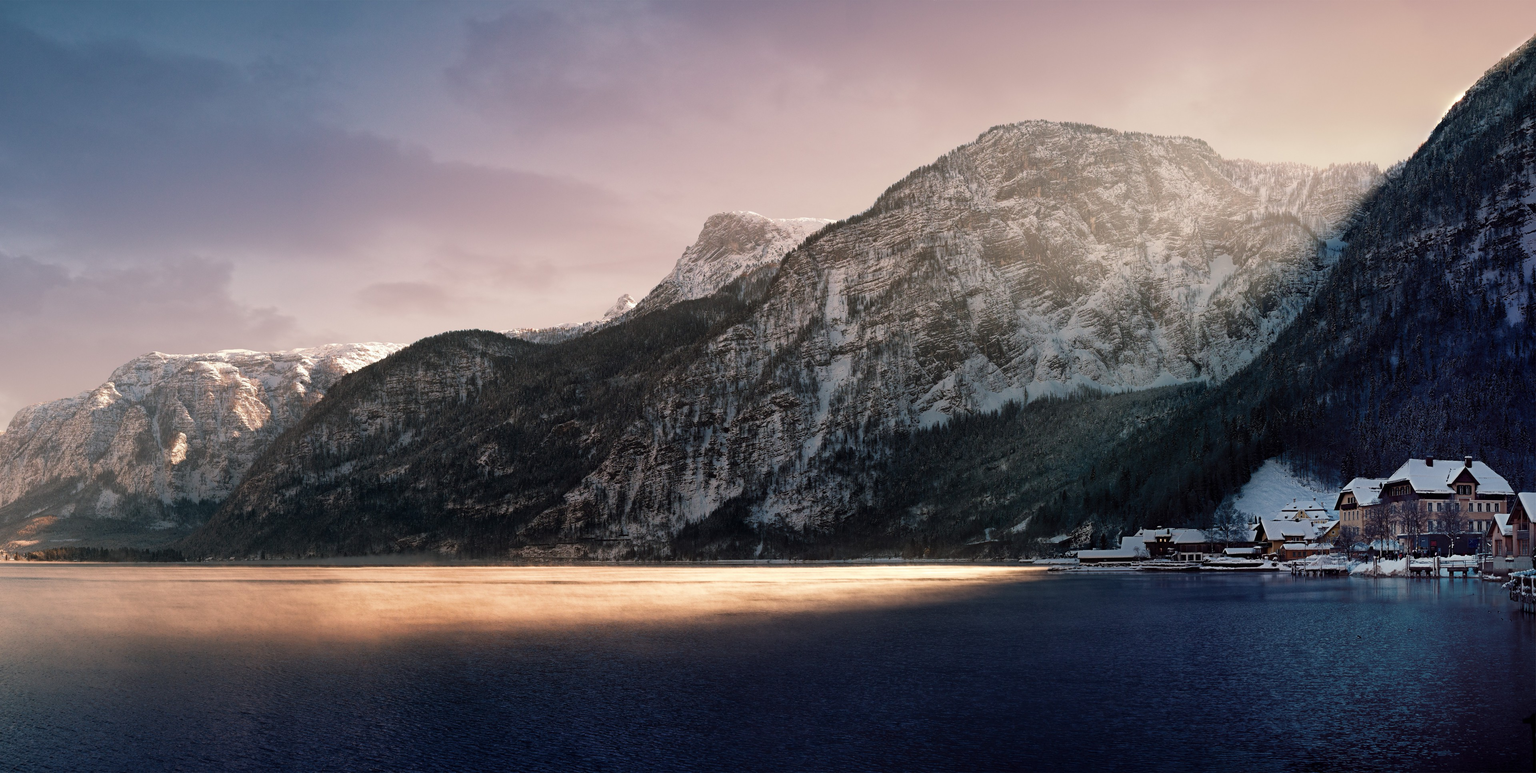
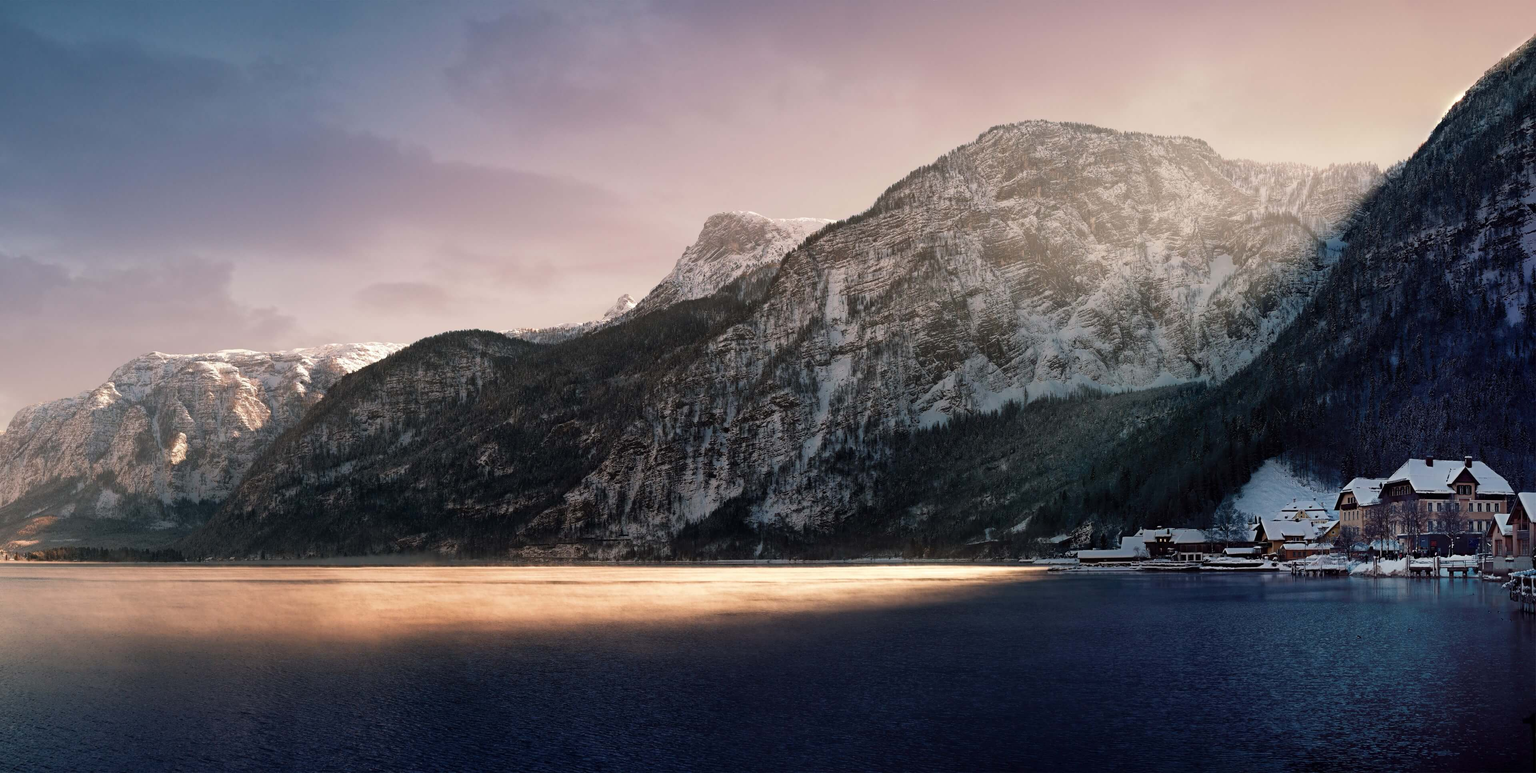
reformat code fix style and made image smaller

Changed region(s): [[0.5625, 0.4037, 0.5938, 0.4348], [0.4062, 0.5901, 0.4375, 0.6211]]

diff --git a/index.html b/index.html
@@ -1,5 +1,6 @@
 <!DOCTYPE html>
 <html lang="en">
+
 <head>
 	<title>Berend Folkers</title>
 
@@ -11,16 +12,17 @@
 	<meta name="viewport" content="width=device-width, initial-scale=1.0">
 
 	<!--Favicon Image-->
-	<link rel="icon" href="img/FaviconIMG.jpg" type="image/gif" sizes="16x16">
+	<link rel="icon" href="./assets/img/FaviconIMG.jpg" type="image/gif" sizes="16x16">
 
 	<!-- Bootstrap 5 -->
-	<link href="https://cdn.jsdelivr.net/npm/bootstrap@5.0.0-beta1/dist/css/bootstrap.min.css" rel="stylesheet" integrity="sha384-giJF6kkoqNQ00vy+HMDP7azOuL0xtbfIcaT9wjKHr8RbDVddVHyTfAAsrekwKmP1" crossorigin="anonymous">
+	<link href="https://cdn.jsdelivr.net/npm/bootstrap@5.0.0-beta1/dist/css/bootstrap.min.css" rel="stylesheet"
+		integrity="sha384-giJF6kkoqNQ00vy+HMDP7azOuL0xtbfIcaT9wjKHr8RbDVddVHyTfAAsrekwKmP1" crossorigin="anonymous">
 
 	<!--Social buttons-->
 	<link href="https://maxcdn.bootstrapcdn.com/font-awesome/4.7.0/css/font-awesome.min.css" rel="stylesheet">
 
 	<!--css file-->
-	<link rel="stylesheet" type="text/css" href="assets/styling/index.css">
+	<link rel="stylesheet" type="text/css" href="./assets/styling/index.css">
 </head>
 
 <body>
@@ -28,14 +30,13 @@
 		<div class="container">
 			<div class="col">
 				<div class="card" id="header">
-					<div id="card-header" div class="card-header rounded">
-
-						<img id ="main-picture" src="assets/img/main-picture.jpg" alt="Foto van mezelf." class="float-start">
+					<div id="card" div class="card-header rounded">
+						<img id="main-picture" src="./assets/img/main-picture.jpg" alt="Foto van mezelf."
+							class="float-start">
 
 						<div class="card-img-overlay">
-							<a href="./index.html" id= "home-link" title="Home page">Berend Folkers.nl</a>
+							<a href="./index.html" id="home-link" title="Home page">Berend Folkers.nl</a>
 						</div>
-
 					</div>
 				</div>
 			</div>
@@ -46,13 +47,24 @@
 				<div class="card" id="menu">
 					<ul class="nav justify-content-center">
 						<li class="nav-item">
-							<a class="nav-link" href="./index.html">Home</a>
+							<a class="nav-link" href="#">
+								<button type="button" class="btn">Home</button>
+							</a>
 						</li>
 						<li class="nav-item">
-							<a class="nav-link" href="#">Projects</a>
+							<a class="nav-link" href="#">
+								<button type="button" class="btn">Projecten</button>
+							</a>
 						</li>
 						<li class="nav-item">
-							<a class="nav-link" href="#">Social</a>
+							<a class="nav-link" href="#">
+								<button type="button" class="btn">Social</button>
+							</a>
+						</li>
+						<li class="nav-item">
+							<a class="nav-link" href="#">
+								<button type="button" class="btn">Ervaring</button>
+							</a>
 						</li>
 					</ul>
 				</div>
@@ -73,17 +85,13 @@
 			<div class="fixed-bottom">
 				<div class="card-footer">
 
-				<a target="blank" href="https://www.linkedin.com/in/berend-folkers/">
-					<button type="button" class="btn"><i class="fa pr-1"></i> Linkedin</button>
-				</a>
+					<a target="blank" href="https://www.linkedin.com/in/berend-folkers/">
+						<button type="button" class="btn"> Linkedin</button>
+					</a>
 
-				<a target="blank" href="https://github.com/berend109/">
-					<button type="button" class="btn"><i class="fa pr-1"></i> Github</button>
-				</a>
-
-				<!-- <a id="mail" target="blank" href="mailto:berend-folkers@live.nl">
-					<button type="button" class="btn btn-email"><i class="fa pr-1"></i> Mail</button>
-				</a> -->
+					<a target="blank" href="https://github.com/berend109/">
+						<button type="button" class="btn"> Github</button>
+					</a>
 
 				</div>
 			</div>
@@ -91,7 +99,10 @@
 	</div>
 
 	<!-- bootstrap 5 js Bundle -->
-	<script src="https://cdn.jsdelivr.net/npm/bootstrap@5.0.0-beta1/dist/js/bootstrap.bundle.min.js" integrity="sha384-ygbV9kiqUc6oa4msXn9868pTtWMgiQaeYH7/t7LECLbyPA2x65Kgf80OJFdroafW" crossorigin="anonymous"></script>
+	<script src="https://cdn.jsdelivr.net/npm/bootstrap@5.0.0-beta1/dist/js/bootstrap.bundle.min.js"
+		integrity="sha384-ygbV9kiqUc6oa4msXn9868pTtWMgiQaeYH7/t7LECLbyPA2x65Kgf80OJFdroafW" crossorigin="anonymous">
+	</script>
 
 </body>
+
 </html>

diff --git a/assets/styling/index.css b/assets/styling/index.css
@@ -1,114 +1,82 @@
 body {
-  background-image: url("../img/background1.jpg");
-  background-repeat: no-repeat;
-  background-attachment: fixed;
-  background-size: 100% 100%;
-  position: center;
+	background-image: url("../img/background1.jpg");
+	background-repeat: no-repeat;
+	background-attachment: fixed;
+	background-size: 100% 100%;
+	position: center;
 }
 
-#main-picture {
-  height: 150px;
-  box-align: center;
-}
-
+/* page title in header */
 #home-link {
-  color: black;
-  font-size: 50px;
+	color: black;
+	font-size: 50px;
+	text-decoration: none;
 }
 
 a:hover {
-  text-decoration: none;
-  color: black;
-}
-
-#header {
-  border-color: #000;
-  border-width: 2px;
-  border-style: solid;
-  background-color: #f0f0f090;
-  text-align: center;
-}
-
-#content {
-  text-align: center;
-  border-color: #000;
-  border-width: 2px;
-  border-style: solid;
-  background-color: #f0f0f090;
-  margin-bottom: 10%;
-}
-
-p {
-  margin-top: 1%;
-}
-
-.card {
-  margin-bottom: 1rem;
-}
-
-.btn{
-  outline: none !important;
-  box-shadow: none !important;
-  background-color: #8c8c8c;
-  color: black;
-  border: 2px solid black;
-  text-align: center;
-}
-
-.btn:hover {
-  background-color: #9bd698;
-  transform: scale(1.05);
-}
-
-.dropbtn {
-  outline: none !important;
-  box-shadow: none !important;
-  background-color: #81bd57;
-  color: black;
-  text-align: center;
-}
-
-.dropdown {
-  position: relative;
-  display: inline-block;
-}
-
-.dropdown-content {
-  display: none;
-  position: absolute;
-  background-color: #f1f1f1;
-  min-width: 200px;
-  box-shadow: 0px 8px 8px 0px rgba(0,0,0,0.2);
-  z-index: 1;
-}
-
-.dropdown-content a {
-  color: black;
-  padding: 12px 16px;
-  text-decoration: none;
-  display: block;
-}
-
-.dropdown-content a:hover {
-  background-color: #ddd;
-}
-
-.dropdown:hover .dropdown-content {
-  display: block;
-}
-
-.dropdown:hover .dropbtn {
-  background-color: #9bd698;
-  transform: scale(1.05);
-}
-
-.card-footer {
-  background-color: rgba(0, 0, 0, 0.2);
+	text-decoration: none;
+	color: black;
 }
 
 /* Let Berend-Folkers tag disapear with certain screen width */
 @media screen and (max-width: 1000px) {
-  #home-link {
-    display: none !important;
-  }
+	#home-link {
+		display: none !important;
+	}
+}
+
+/* header styling  */
+#header {
+	border-color: #000;
+	border-width: 2px;
+	border-style: solid;
+	background-color: #f0f0f090;
+	text-align: center;
+}
+
+#main-picture {
+	height: 150px;
+	box-align: center;
+}
+
+/* menu styling */
+#menu {
+	border-color: #000;
+	border-width: 2px;
+	border-style: solid;
+	background-color: #f0f0f090;
+}
+
+/* content styling */
+#content {
+	text-align: center;
+	border-color: #000;
+	border-width: 2px;
+	border-style: solid;
+	background-color: #f0f0f090;
+	margin-bottom: 10%;
+}
+
+p {
+	margin-top: 1%;
+}
+
+.card {
+	margin-bottom: 1rem;
+}
+
+/* button styling */
+.btn {
+	background-color: #8c8c8c;
+	border: 2px solid black;
+}
+
+.btn:hover {
+	background-color: #9bd698;
+	transform: scale(1.05);
+}
+
+/* footer */
+.card-footer {
+	background-color: rgba(0, 0, 0, 0.2);
 }
